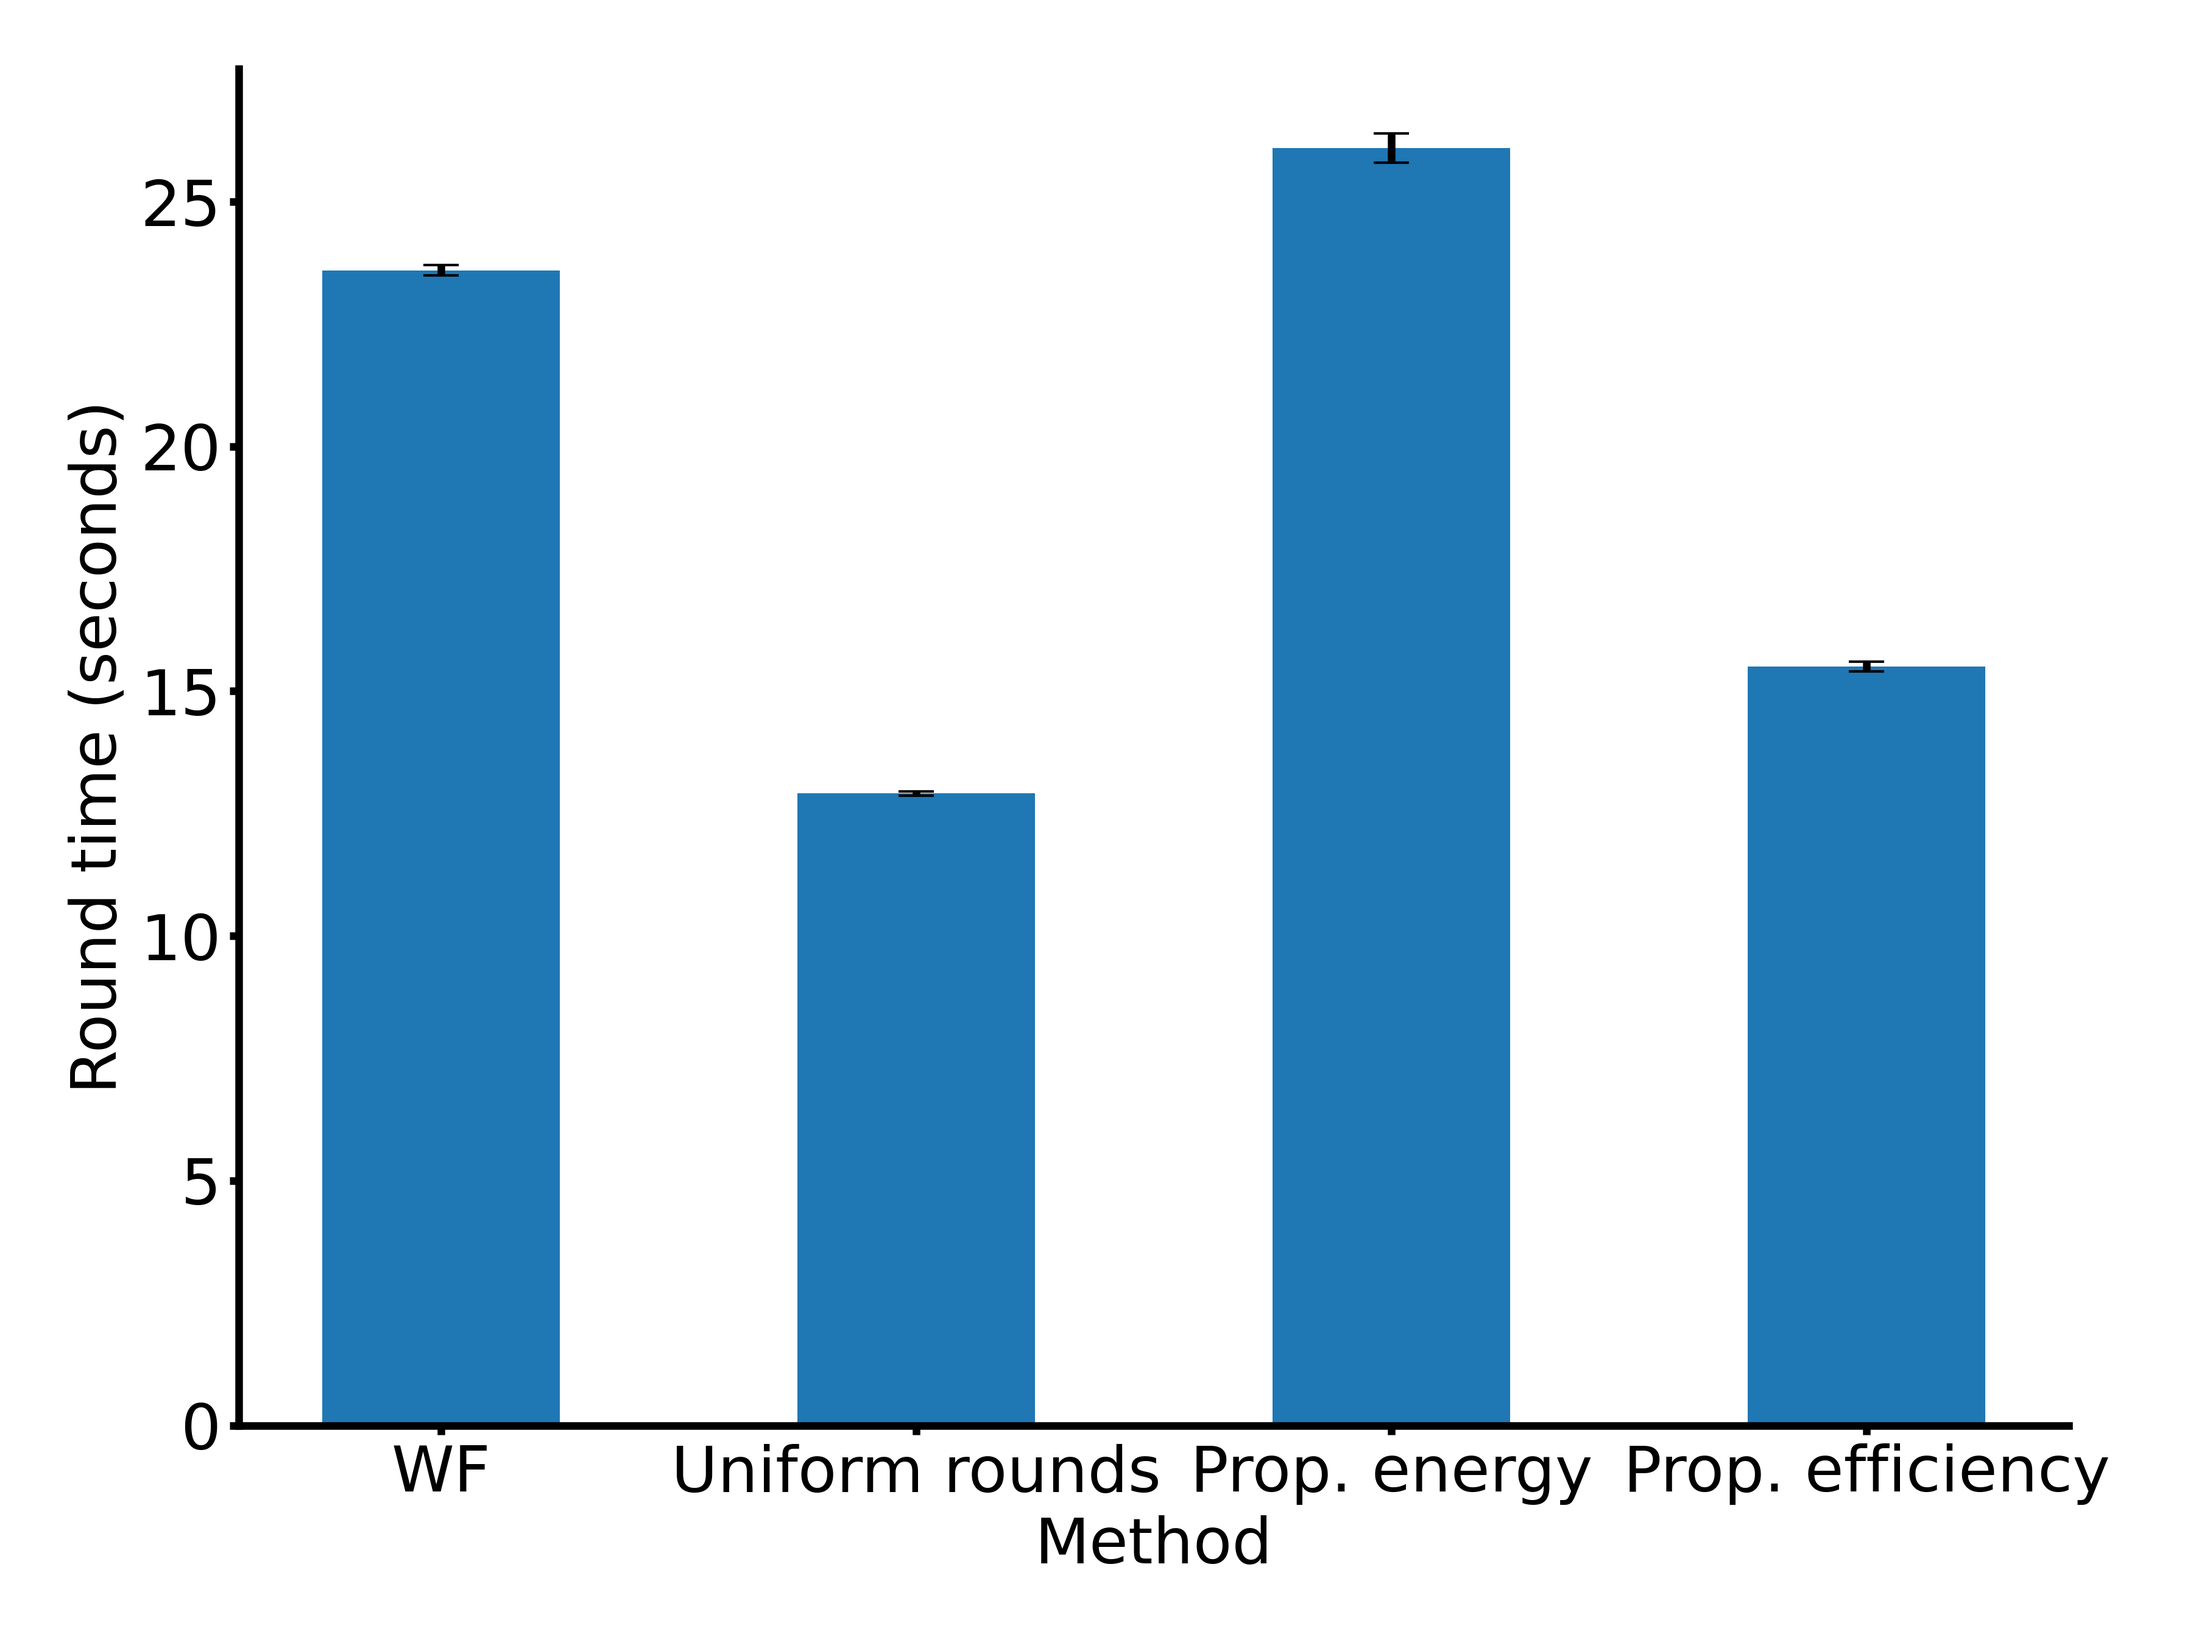
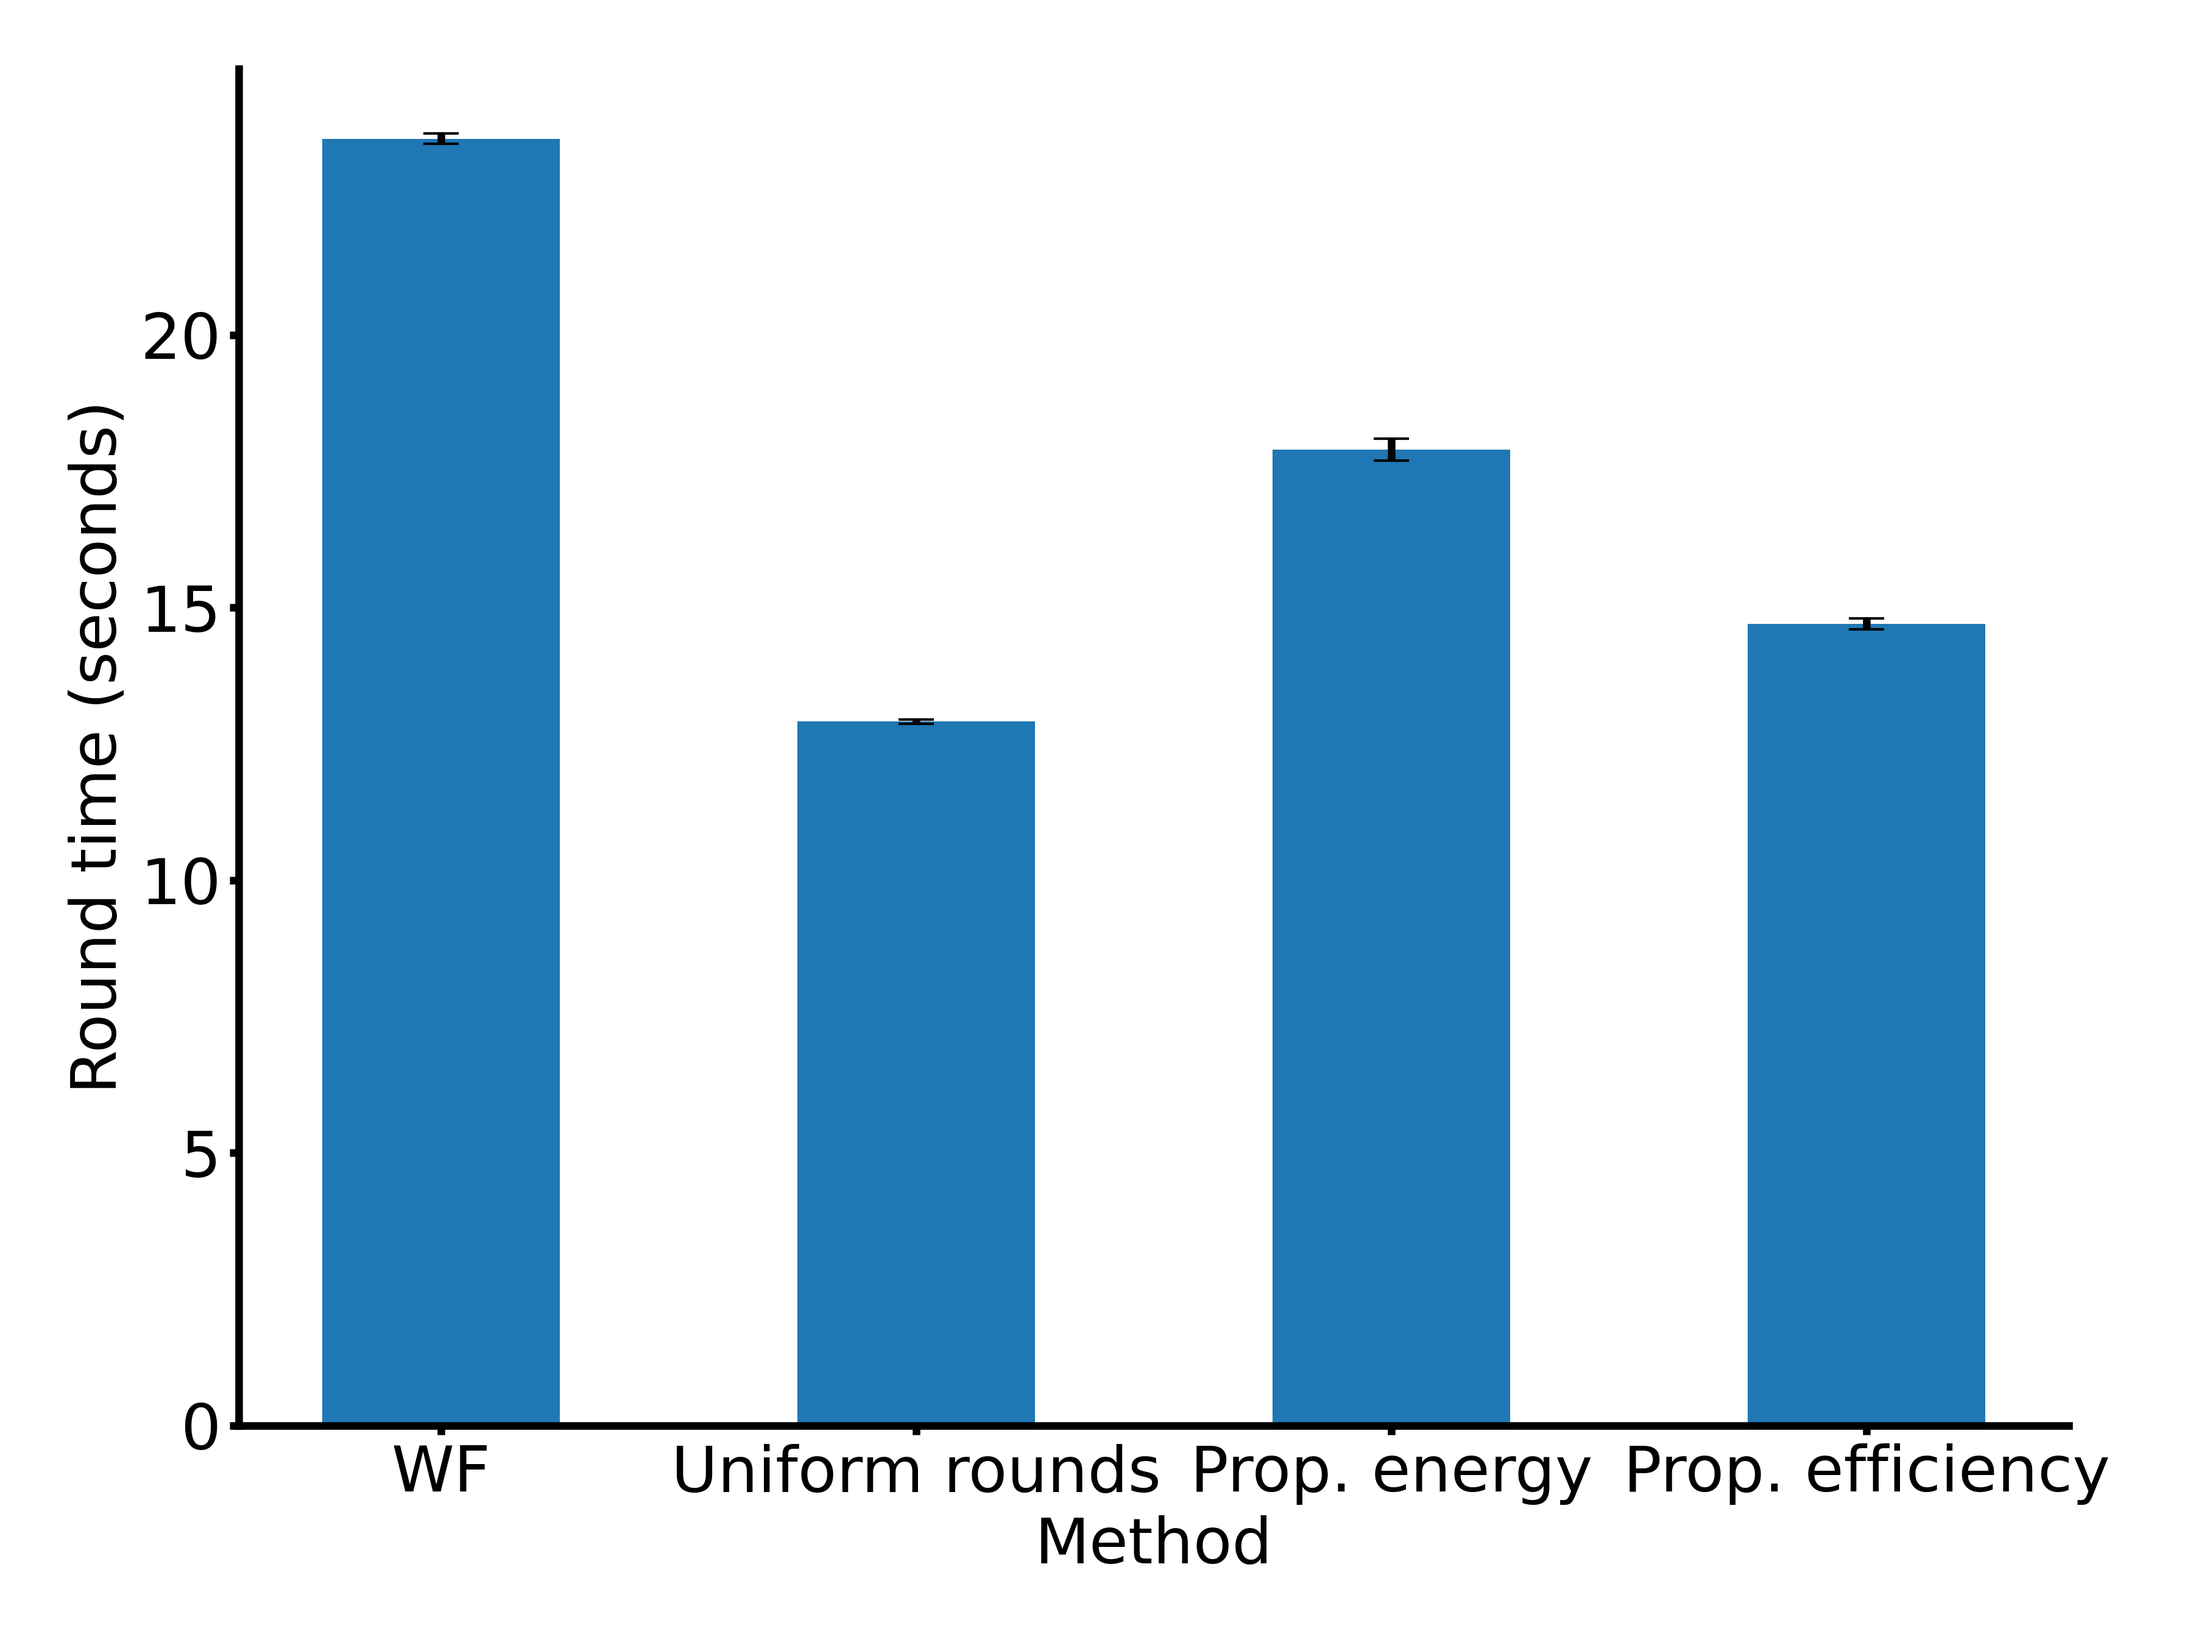
Fix plots

diff --git a/proxy_solvers.py b/proxy_solvers.py
@@ -18,7 +18,8 @@ class Solver:
 
         self.clients_list = clients_list
         self.num_clients = len(clients_list)
-        self.time_budget = time_budget        
+        self.time_budget = time_budget       
+        self.num_min_epochs = num_min_epochs 
 
         global log
         log = is_log_active
@@ -100,7 +101,8 @@ class ProportionalEnergySolver(Solver):
 
         r_list = []
         for client in self.clients_list:
-            r_list.append(self.R * client.Eio/total_energy)
+            num_epochs = self.num_min_epochs * client.Eio/total_energy
+            r_list.append(self.csi - num_epochs)
         
         self.new_clients_list = []
         for i, client in enumerate(self.clients_list):
@@ -134,7 +136,8 @@ class ProportionalEfficiencySolver(Solver):
         r_list = []
         for c in self.clients_list:
             round_consumption = c.P_down_avg - c.Pi + c.epsilon_i/c.tau_i 
-            r_list.append(self.R * (1/round_consumption) / total_inverse_round_power)
+            num_epochs = self.num_min_epochs * (1/round_consumption) / total_inverse_round_power
+            r_list.append(self.csi - num_epochs)
         
         self.new_clients_list = []
         for i, client in enumerate(self.clients_list):

diff --git a/plots/plot_energy_stdev.py b/plots/plot_energy_stdev.py
@@ -5,7 +5,7 @@ import numpy as np
 plt.style.use('~/guiaraujo.mplstyle')
 
 solvers = ["WF","Uniform rounds","Prop. energy","Prop. efficiency"]
-stdev_soc_10_to_40 = [6385,6751,8225, 6788]
+stdev_soc_10_to_40 = [6385,6751,6612,6733]
 stdev_soc_10_to_40_err = [67, 66, 79, 65]
 
 x = np.arange(len(solvers))
@@ -24,7 +24,7 @@ ax.set_xticks(x)
 ax.set_xticklabels(solvers)
 ax.set_xlabel("Method")
 ax.set_ylabel("Energy standard deviation")
-ax.set_ylim(6000,9000)
+ax.set_ylim(6000,7000)
 
 plt.tight_layout()
 plt.savefig("plots/stdev_soc.png", dpi=300)

diff --git a/plots/plot_drop_factor.py b/plots/plot_drop_factor.py
@@ -5,8 +5,8 @@ import numpy as np
 plt.style.use('~/guiaraujo.mplstyle')
 
 solvers = ["WF","Uniform rounds","Prop. energy","Prop. efficiency"]
-drop_factor_10_to_40 = [1.53, 1.79, 1.79, 1.84]
-drop_factor_10_to_40_err = [0.02, 0.01, 0.02, 0.01]
+drop_factor_10_to_40 = [1.53, 1.79, 1.80, 1.79]
+drop_factor_10_to_40_err = [0.02, 0.01, 0.01, 0.01]
 
 x = np.arange(len(solvers))
 

diff --git a/plots/plot_round_time.py b/plots/plot_round_time.py
@@ -5,8 +5,8 @@ import numpy as np
 plt.style.use('~/guiaraujo.mplstyle')
 
 solvers = ["WF","Uniform rounds","Prop. energy","Prop. efficiency"]
-times_10_to_40 = [23.6, 12.91, 26.1, 15.5]
-times_10_to_40_err = [0.1, 0.04, 0.3, 0.1]
+times_10_to_40 = [23.6, 12.91, 17.9, 14.7]
+times_10_to_40_err = [0.1, 0.04, 0.2, 0.1]
 
 x = np.arange(len(solvers))
 

diff --git a/plots/plot_solver_time.py b/plots/plot_solver_time.py
@@ -5,8 +5,8 @@ import numpy as np
 plt.style.use('~/guiaraujo.mplstyle')
 
 solvers = ["WF","Uniform rounds","Prop. energy","Prop. efficiency"]
-times_soc_10_to_40 = [1565, 87, 102, 114]
-times_soc_10_to_40_err = [30, 1, 1, 1.5]
+times_soc_10_to_40 = [1565, 87, 97, 116]
+times_soc_10_to_40_err = [30, 1, 1, 1]
 
 x = np.arange(len(solvers))
 
